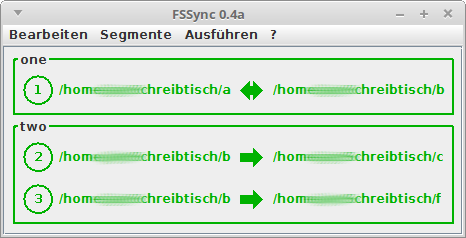
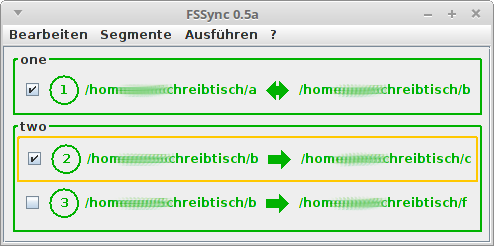
updated docs

Changed region(s): [[0.0, 0.0294, 1.0, 1.0], [0.03, 0.0294, 0.0601, 0.0588]]

diff --git a/fssync/src/net/janbuchinger/code/fssync/fs/res/help.html b/fssync/src/net/janbuchinger/code/fssync/fs/res/help.html
@@ -43,6 +43,8 @@
 <p><b>Klick auf Nummer:</b> Operation zum Bearbeiten &ouml;ffnen.</p>
 <p><b>Klick auf Pfad:</b> Ordner im Dateiexplorer &ouml;ffnen.</p>
 <p><b>Klick auf Pfeil:</b> Operation ausf&uuml;hren.</p>
+<p><b>Checkbox Auswahl:</b> Operation zum Ausf&uuml;hren Ausw&auml;hlen.</p>
+<p><b>Oranger Rahmen:</b> Operation sollte ausgef&uuml;hrt werden.</p>
 
 <h2>II :: Einstellungen :: Bearbeiten &gt; Einstellungen...</h2>
 <img src="settings.png">
@@ -50,8 +52,11 @@
 <p><b>Viele Informationen w&auml;hrend der Synchronisation anzeigen:</b> Es wird Information zu jeder behandelten Datei angezeigt.</p>
 <p><b>Ordner f&uuml;r Logdateien:</b> Der Ordner in dem allenfalls Logdateien abgelegt werden sollen.</p>
 <p><b>Log immer Speichern:</b> Es wird am Ende jeder Synchronisation eine Logdatei gespeichert.</p>
-<p><b>Zusammenfassung vor &auml;nderung zeigen:</b> Es wird ein Dialog mit einer Zusammenfassung aller zu kopierenden und zu l&ouml;schenden Dateien angezeigt. Es besteht die M&ouml;glichkeit Dateien an/abzuw&auml;hlen, Konflikte zu bearbeiten und die Operation abzubrechen.</p>
+<p><b>Zusammenfassung vor &Auml;nderung zeigen:</b> Es wird ein Dialog mit einer Zusammenfassung aller zu kopierenden und zu l&ouml;schenden Dateien angezeigt. Es besteht die M&ouml;glichkeit Dateien an/abzuw&auml;hlen, Konflikte zu bearbeiten und die Operation abzubrechen.</p>
 <p><b>Dateibrowser:</b> Das Kommando um einen Dateiexplorer zu &ouml;ffnen.</p>
+<p><b>Als Tray Icon Starten:</b> Das Programm startet und wird als Trayicon angezeigt anstelle davon dass das Programmfenster ge&ouml;ffnet wird.</p>
+<p><b>Ins Tray Schliessen:</b> Das Programm wird beim Schliessen des Fensters im Traymen&uuml; fortgesetzt anstatt zu enden.</p>
+<p><b>Ins Tray Minimieren:</b> Das Programmfenster wird beim Minimieren versteckt und das Trayicon wird angezeigt.</p>
 
 <h2>IIIa :: Neues Segment Anlegen :: Segmente &gt; Segment hinzuf&uuml;gen...</h2>
 <p>Es erscheint ein Dialog der einen Namen fordert. Optional k&ouml;nnen Synchronisationsoperationen hinzugef&uuml;gt, ver&auml;ndert oder entfernt werden.</p>
@@ -61,7 +66,7 @@
 <p><b>Quelle:</b> das Quellverzeichnis.</p>
 <p><b>Ziel:</b> das Zielverzeichnis dessen Inhalt mit dem Inhalt des Quellverzeichnisses synchronisiert werden soll.</p>
 <h3>Ausnahmen</h3>
-<p><b>Liste:</b> Verzeichnisse welche von der Synchronisation auszuschliessen sind. Die Eintr&auml;ge sind relativ zum Quellverzeichnis.</p>
+<p><b>Liste:</b> Verzeichnisse welche von der Synchronisation auszuschliessen sind. Die Eintr&auml;ge sind relativ zum Quellverzeichnis. Die Ausnahmen, die beim Speichern der Operation nicht mehr im Dateisysten existieren werden automatisch aus der Liste gel&ouml;scht.</p>
 <p><b>+ Button:</b> Verzeichnis Hinzuf&uuml;gen.</p>
 <p><b>- Button:</b> Ausgew&auml;hltes Verzeichnis L&ouml;schen.</p>
 <h3>Optionen</h3>
@@ -73,6 +78,10 @@
 <p><b>Neu:</b> Es wird die neuere Datei bevorzugt.</p>
 <p><b>Alt:</b> Es wird die &auml;ltere Datei bevorzugt.</p>
 <p><b>&Auml;nderungsdatum ignorieren wenn Pr&uuml;fsumme und L&auml;nge gleichgeblieben:</b> Es werden Dateien deren Modifikationsdatum nicht mit dem zuletzt synchronisierten Datum &uuml;bereinstimmt zus&auml;tzlich anhand der Dateigr&ouml;sse und einer Pr&uuml;fsumme verglichen. Wenn sie identisch scheint wird sie ignoriert.</p>
+<h3>Timing</h3>
+<p><b>Letzte Synchronisierung:</b> Der Zeitpunkt der letzten Synchronisierung.</p>
+<p><b>Intervall:</b> Das Intervall in Tagen, Stunden oder Minuten in dem die Operation ausgeführt werden sollte. "0" wenn sie nie fällig werden soll.</p>
+<p><b>Erinnern:</b> Es wird eine Nachricht aus dem Trayicon angezeigt wenn die Operation f&auml;llig wird. Wenn Intervall "0" ist dann wird Erinnern automatisch ausgeschaltet.</p>
 <h2>IIIc :: Operation L&ouml;schen :: - Button</h2>
 <p>In der Liste ausgew&auml;hlte Operation wird gel&ouml;scht.</p>
 <h2>IIId :: Operation Bearbeiten :: Doppelklick auf Liste</h2>
